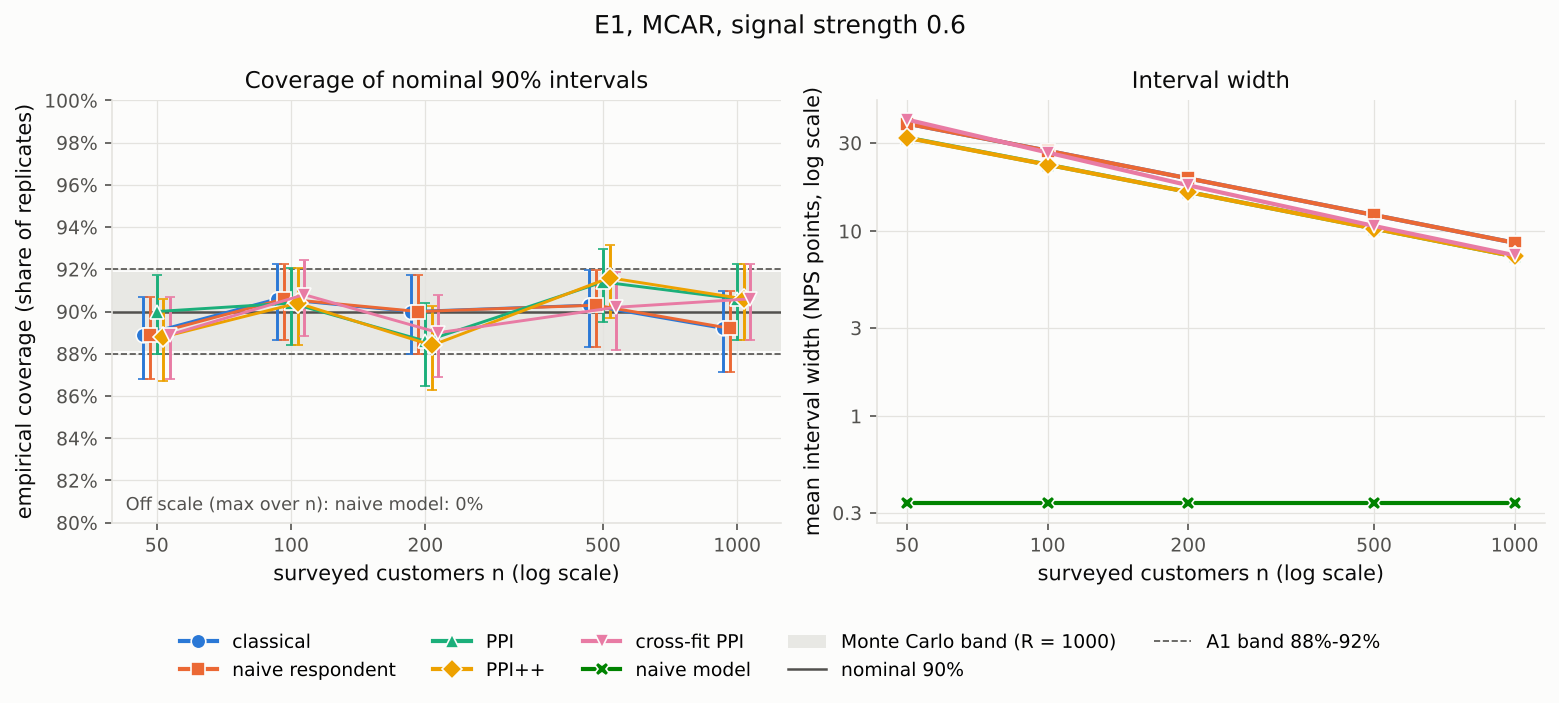
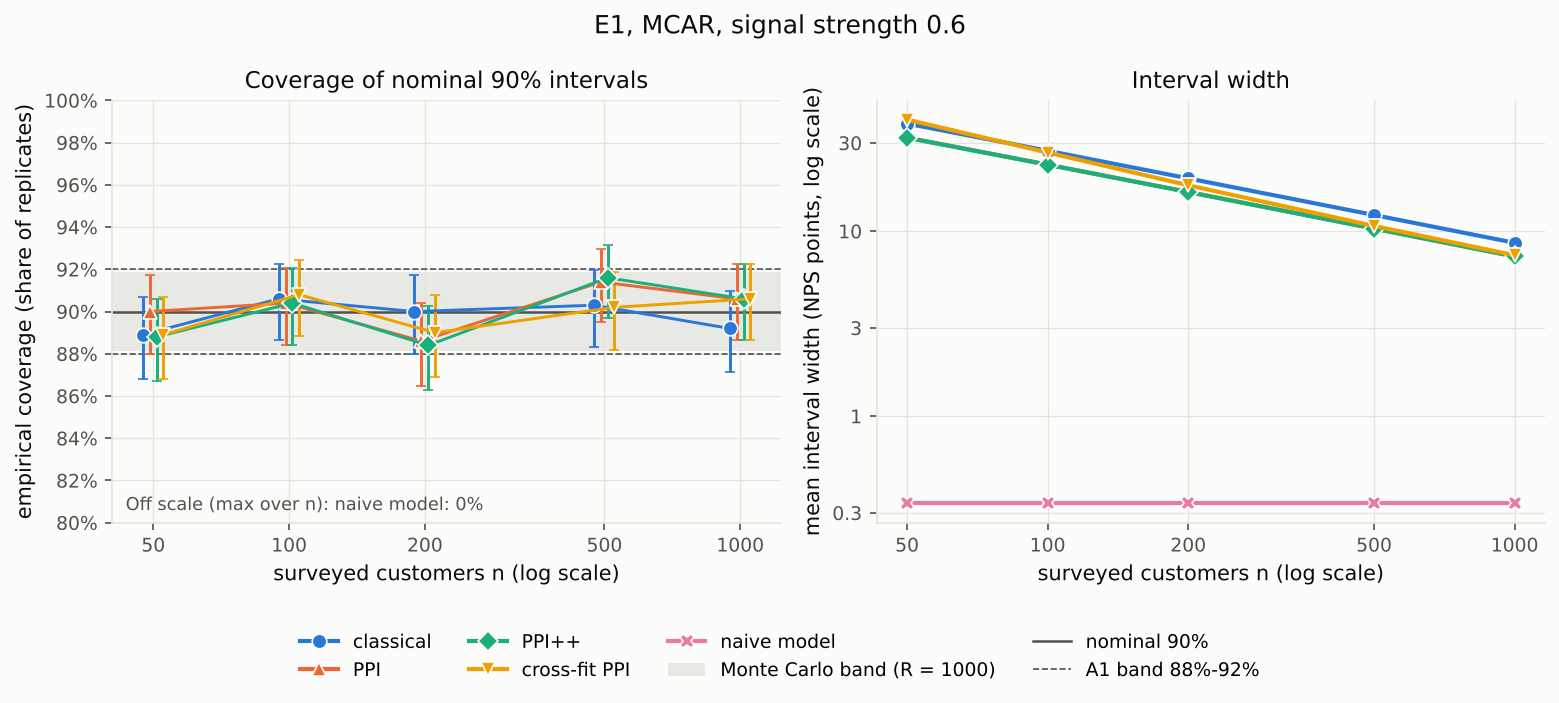
Rerun E1 and record Gate G2 review decisions
Claude-Session: https://claude.ai/code/session_01DNqaHmwnarGnUVWoa3uR4b

diff --git a/docs/progress/phase-2.md b/docs/progress/phase-2.md
@@ -103,7 +103,7 @@ prediction pair f = (P(promoter), P(detractor)), with the NPS gradient g = (100,
 
 | File | Contents |
 |---|---|
-| `src/silent97/estimators/classical.py` | `classical`, `naive_respondent`, `naive_model` |
+| `src/silent97/estimators/classical.py` | `classical` (also the naive respondent baseline under self-selection), `naive_model` |
 | `src/silent97/estimators/ppi.py` | Generic PPI core (`ppi_mean_pointestimate`, `ppi_mean_cov`, `optimal_lambda`, `ppi_mean_ci`); NPS estimators `ppi`, `ppi_pp`, `ppi_crossfit`; the `cross_fit` helper |
 | `src/silent97/estimators/_common.py` | `alpha` and input validation; Wald interval |
 | `src/silent97/estimators/__init__.py` | `REGISTRY` (name → estimator) and `VALID_UNDER_MCAR` |
@@ -125,11 +125,11 @@ the `estimate` signature, and `estimators.REGISTRY` maps names to them.
 | Criterion | Result |
 |---|---|
 | Reference cross-checks at 1e-6 (A2) | **Pass.** 901 tests across 25 seeds × 4 (n, N) pairs ((50, 500), (100, 5,000), (500, 2,000), (1,000, 100,000)). Scalar means: PPI (λ = 1), PPI++ (clipped, matching `ppi_py`'s default, and unclipped against `ppi_py`'s own λ formula), cross-PPI, classical. NPS contrast: `classical`, `ppi`, `ppi_pp` (both clip settings), `ppi_crossfit` against `ppi_py` applied to v = gᵀZ, h = gᵀf. Tolerance is an absolute 1e-6 (no relative slack); the largest observed difference on NPS bounds is 1.2e-12. |
-| E1 coverage within criteria for every valid estimator at n ∈ {50, 100, 200, 500, 1000} (A1) | **Pass: 25/25** (5 valid estimators × 5 n). Table below. |
-| Naive baselines fail | `naive_model`: 0.0% coverage at every n in E1. `naive_respondent`: 15.4% (MAR) and 31.2% (MNAR) at n = 1,000. `naive_model` under MAR/MNAR: **not shown to fail**, see below. |
+| E1 coverage within criteria for every valid estimator at n ∈ {50, 100, 200, 500, 1000} (A1) | **Pass: 20/20** (4 valid estimators × 5 n). Table below. |
+| Naive baselines fail | `naive_model`: 0.0% coverage at every n in E1. `classical` on self-selected respondents (the naive respondent baseline): 15.4% (MAR) and 31.2% (MNAR) at n = 1,000. |
 | `make lint` | Clean. mypy `--strict` on `estimators/`. |
-| `make test` | 1,142 tests, about 30 s on an idle machine (unit, property, probing, reference). |
-| `make test-slow` | **18 passed, 2 failed** (7 min 34 s). Every coverage test for a valid estimator passes. The two failures are my own `naive_model`-under-self-selection tests; the test premise is wrong (see "Slow coverage suite"). Left failing, pending your decision. |
+| `make test` | 1,143 tests in about 27 s (unit, property, probing, reference). |
+| `make test-slow` | **15/15 passed** (4 min 52 s), after the review decisions below. (The first run, before the decisions, had 18 passed and 2 failed: the `naive_model` self-selection cases discussed below.) |
 | Line coverage | `estimators/`: 100% of statements and branches (unit + reference tests). Package total 99%. |
 
 ### E1 (configs/e01_coverage.yaml; seed 20261011; 1,000 replicates; MCAR; signal 0.6)
@@ -147,8 +147,6 @@ on the pool.
 | 500 | 0.903 [0.883, 0.920] | 0.914 [0.895, 0.930] | 0.916 [0.897, 0.932] | 0.902 [0.882, 0.919] | 0.000 |
 | 1000 | 0.892 [0.871, 0.910] | 0.906 [0.886, 0.923] | 0.906 [0.886, 0.923] | 0.906 [0.886, 0.923] | 0.000 |
 
-(`naive_respondent` is identical to `classical` under MCAR, as designed.)
-
 Mean width (NPS points) and effective n (classical width / method width, squared, × n):
 
 | n | classical | PPI | PPI++ | cross-fit PPI |
@@ -165,17 +163,18 @@ and λ* ≈ N/(N + n) ≈ 1, and PPI and PPI++ nearly coincide. `naive_model` ha
 bias +0.44 with mean width 0.34, so it never covers. Its "effective n" of about
 650,000 is the false precision the memo warns about.
 
-Runtime: 12 min 56 s on 4 cores (`n_jobs: 4`), almost all of it cross-fitting
-(10 logistic fits plus a 195,000-row prediction per replicate).
+Runtime: 7 min 40 s on 4 cores (`n_jobs: 4`), after the review's efficiency pass
+(first run: 12 min 56 s). Almost all of it is cross-fitting: 10 logistic fits plus
+predictions for 195,000 rows per replicate.
 
 ### Slow coverage suite (`tests/coverage/test_coverage.py`)
 
 - **MCAR, seed 20261012 (not E1's seed), 1,000 replicates, n ∈ {50, 200, 1000}:**
-  all 15 (estimator, n) checks for `classical`, `naive_respondent`, `ppi`, `ppi_pp`
-  and `ppi_crossfit` pass (Wilson 95% interval overlaps [0.88, 0.92]).
+  all 15 (estimator, n) checks for `classical`, `ppi`, `ppi_pp` and `ppi_crossfit`
+  (plus the since-removed alias `naive_respondent`) pass (Wilson 95% interval overlaps [0.88, 0.92]).
   `naive_model` fails coverage under MCAR, as intended.
 - **MAR and MNAR, default population (seed 20261010), n = 1,000, 1,000 replicates:**
-  `naive_respondent` fails as intended. Coverage is 15.4% [13.3%, 17.8%] under MAR
+  the naive respondent baseline (now `classical`) fails as intended. Coverage is 15.4% [13.3%, 17.8%] under MAR
   (bias +6.92, RMSE 7.41) and 31.2% [28.4%, 34.1%] under MNAR (bias +5.67).
 - **FAILED: `naive_model` under MAR and MNAR**: 100% coverage [99.6%, 100%] in both,
   with bias +0.14 and mean width 0.35.
@@ -228,16 +227,14 @@ they move together, and then combined with the weights (+100, −100)
 (`nps.py:299`: gᵀΣg). Every interval is point ± 1.645 × standard error for 90%
 (`_common.py:29-30`).
 
-- **classical** (`classical.py:52-67`, entry at `:103`). Average the two flags over
-  respondents (`:64`, covariance with ddof = 0 at `nps.py:269`). NPS is the difference
-  (`:65`), and the standard error is the delta-method one from the 2×2 covariance
-  (`:66`). Valid when respondents are a random sample.
-- **naive_respondent** (`classical.py:114`). Exactly the classical computation, used
-  as the "trust whoever answered" baseline. Under MCAR it is fine; under self-selection
-  it should fail (slow suite).
-- **naive_model** (`classical.py:117-137`). Ignores the survey answers. It averages
-  the model's predicted NPS over everyone (`:134-135`), with a standard error that
-  only reflects how many predictions were averaged (`:136`). Its interval is tiny and
+- **classical** (`classical.py:49-90`). Average the two flags over respondents
+  (`:72`, covariance with ddof = 0 at `nps.py:269`). NPS is the difference (`:73`),
+  and the standard error is the delta-method one from the 2×2 covariance (`:74`).
+  Valid when respondents are a random sample. On self-selected respondents it is
+  the "trust whoever answered" baseline, which fails (slow suite).
+- **naive_model** (`classical.py:93-124`). Ignores the survey answers. It averages
+  the model's predicted NPS over everyone (`:110-111`), with a standard error that
+  only reflects how many predictions were averaged (`:112`). Its interval is tiny and
   wrong whenever the model is even slightly biased. This is the "LLM-only" trap.
 - **ppi** (`ppi.py:334-356`, shared engine `_nps_ppi` at `:282-297`). Start from
   the model's average prediction over the *unsurveyed* customers, then correct it by
@@ -263,22 +260,64 @@ they move together, and then combined with the weights (+100, −100)
   the 10 models also scores every unsurveyed customer; those 10 predictions are
   averaged (`:410`). Then apply plain PPI (`:411`).
 - **Disjointness** is enforced in the harness: the inference pool excludes the
-  labeler's training customers (`harness.py:281`), and every draw is checked
-  (`harness.py:301-302`, raising "training leak").
+  labeler's training customers (`harness.py:290`), and every draw is checked
+  (`harness.py:310-311`, raising "training leak").
 
 ### Open questions for review
 
-1. **λ clipping** (from the plan): the default follows the paper (no clipping) and
-   `clip=True` matches `ppi_py`. In E1, λ̂ never left [0, 1] in practice (mean 0.97–0.98).
-2. **naive_respondent** is the same computation as `classical`. Is that what you meant?
-3. **A3 wording:** keep "≥ 1.5× when ρ ≥ 0.5" and report the expected shortfall, or
-   restate it as "≥ 1.5× when ρ ≥ 0.6", or as "matches 1/(1 − ρ²) within Monte
-   Carlo error"?
-4. **The failing `naive_model` self-selection test**: choose (a), (b) or (c) above.
-5. **Runtime:** E1 takes about 13 minutes on 4 cores, mostly cross-fitting. With more
-   experiments to come, A7 (30 minutes for `make reproduce`) will be tight. Options:
-   fewer replicates for cross-fit in `reproduce`, K = 5 folds, or caching E1 results.
-   I have not changed anything.
+1. ~~λ clipping~~: resolved (below).
+2. ~~naive_respondent~~: resolved, merged into `classical`.
+3. ~~A3 wording~~: resolved, reworded.
+4. ~~The failing `naive_model` self-selection test~~: resolved, (a) for E4 and (b) here.
+5. ~~Runtime~~: efficiency pass done (below). E1 now takes 7 min 40 s on 4 cores.
+   A7 (30 minutes for all of `make reproduce`) may still get tight once E2–E8
+   exist; revisit then.
 
-Phase 2 stops here, pending your review at Gate G2. Gate status: A2 and E1/A1 pass;
-2 of 20 slow tests fail, for the reason explained above.
+### Reviewer decision on the failing `naive_model` tests
+
+The reviewer chose **(a) for E4** and **(b) for this test**.
+
+- **(a):** `labeler.train_mechanism` now also accepts `"scenario"`, which trains the
+  labeler on respondents drawn under the scenario's own mechanism. The default stays
+  `"mcar"`, so E1 is unchanged. Phase 4's E4 config will set
+  `train_mechanism: scenario`. Test: `test_labeler_trained_on_scenario_mechanism`.
+  A one-replicate check on the default population (seed 20261010, informational
+  only, nothing tuned): `naive_model` bias is +0.14 for every mechanism with uniform
+  training. With `train_mechanism: scenario` it is +0.14 (MCAR), **+1.97 (MAR)**
+  and **−2.66 (MNAR)**, against a half-width of about 0.2, so it fails under self-selection.
+- **(b):** the self-selection coverage test now checks only the respondent baseline
+  (`test_classical_fails_under_self_selection`, after the rename below). The
+  `naive_model` MCAR failure test is unchanged.
+
+### Reviewer decisions on the remaining open questions
+
+1. **λ clipping: "take the best approach".** Kept as built. The default is no
+   clipping: for means the variance objective is convex for every λ, so the plug-in
+   is variance-optimal, and this is what the PPI++ paper and CLAUDE.md rule 3
+   prescribe. `clip=True` reproduces `ppi_py`. Both are cross-checked.
+2. **A3 reworded** in `docs/PLAN.md`: "within Monte Carlo error of 1/(1 − ρ²), and at
+   least 1.5× when ρ ≥ 0.6". At ρ = 0.6 theory gives 1/(1 − 0.36) = 1.56×. E2
+   (Phase 3) will test it.
+3. **One name instead of `naive_respondent`.** Removed the alias. `classical`
+   is now also the naive respondent baseline under self-selection. Updated:
+   registry, `VALID_UNDER_MCAR`, E1 config, figure styles (palette slots 1–5 in
+   fixed order), tests, `docs/PLAN.md` (estimator table and the baseline sentence)
+   and the Phase 2 task line in `CLAUDE.md`. Two tests that only compared the two
+   names were removed. In their place, `test_rows_match_estimators_on_the_replicate_draw`
+   rebuilds a replicate's survey draw independently and checks the stored
+   `classical` and `ppi` rows against it.
+4. **Inefficiencies.** Profiling one cross-fit replicate (0.48 s) found two:
+   - the softmax reduced over a length-3 class axis of a 195,000 × 10 × 3 array.
+     Numpy is slow at that; it is now elementwise over the three class slices
+     (`labelers/logistic.py`, `predict_folds`);
+   - `validate_predictions` made separate NaN and finite passes and summed rows
+     along a length-2 axis. It now makes one finite pass (NaN is identified only on
+     failure) and adds the two columns. Same checks, same messages.
+
+   Cross-fit replicates went from 0.48 s to 0.35 s, and the other estimators from
+   0.059 s to 0.040 s. E1 went from 12 min 56 s to 7 min 40 s. Every E1 metric
+   (coverage, width, bias, RMSE, λ, effective n) is identical to the previous run in
+   all 25 shared rows. The logistic fits (about 0.12 s per replicate) are necessary
+   work and were left alone. No statistical choice (K, replicates, n) was changed.
+
+Phase 2 stops here, pending your review at Gate G2.

diff --git a/docs/results/e01_coverage_summary.md b/docs/results/e01_coverage_summary.md
@@ -14,11 +14,6 @@ Generated by `experiments/e01_coverage.py` from `configs/e01_coverage.yaml` (100
 | naive_model | 200 | 0.000 | [0.000, 0.004] | NO | 0.34 | +0.44 | 0.44 |  | 655767 |
 | naive_model | 500 | 0.000 | [0.000, 0.004] | NO | 0.34 | +0.44 | 0.44 |  | 658508 |
 | naive_model | 1000 | 0.000 | [0.000, 0.004] | NO | 0.34 | +0.44 | 0.44 |  | 659079 |
-| naive_respondent | 50 | 0.889 | [0.868, 0.907] | yes | 38.15 | +0.43 | 11.87 |  | 50 |
-| naive_respondent | 100 | 0.906 | [0.886, 0.923] | yes | 27.22 | +0.17 | 8.13 |  | 100 |
-| naive_respondent | 200 | 0.900 | [0.880, 0.917] | yes | 19.30 | -0.06 | 5.85 |  | 200 |
-| naive_respondent | 500 | 0.903 | [0.883, 0.920] | yes | 12.23 | +0.03 | 3.61 |  | 500 |
-| naive_respondent | 1000 | 0.892 | [0.871, 0.910] | yes | 8.65 | -0.14 | 2.60 |  | 1000 |
 | ppi | 50 | 0.900 | [0.880, 0.917] | yes | 32.08 | +0.18 | 9.65 | 1.000 | 71 |
 | ppi | 100 | 0.904 | [0.884, 0.921] | yes | 22.90 | +0.21 | 6.85 | 1.000 | 141 |
 | ppi | 200 | 0.886 | [0.865, 0.904] | yes | 16.29 | +0.04 | 5.07 | 1.000 | 281 |
